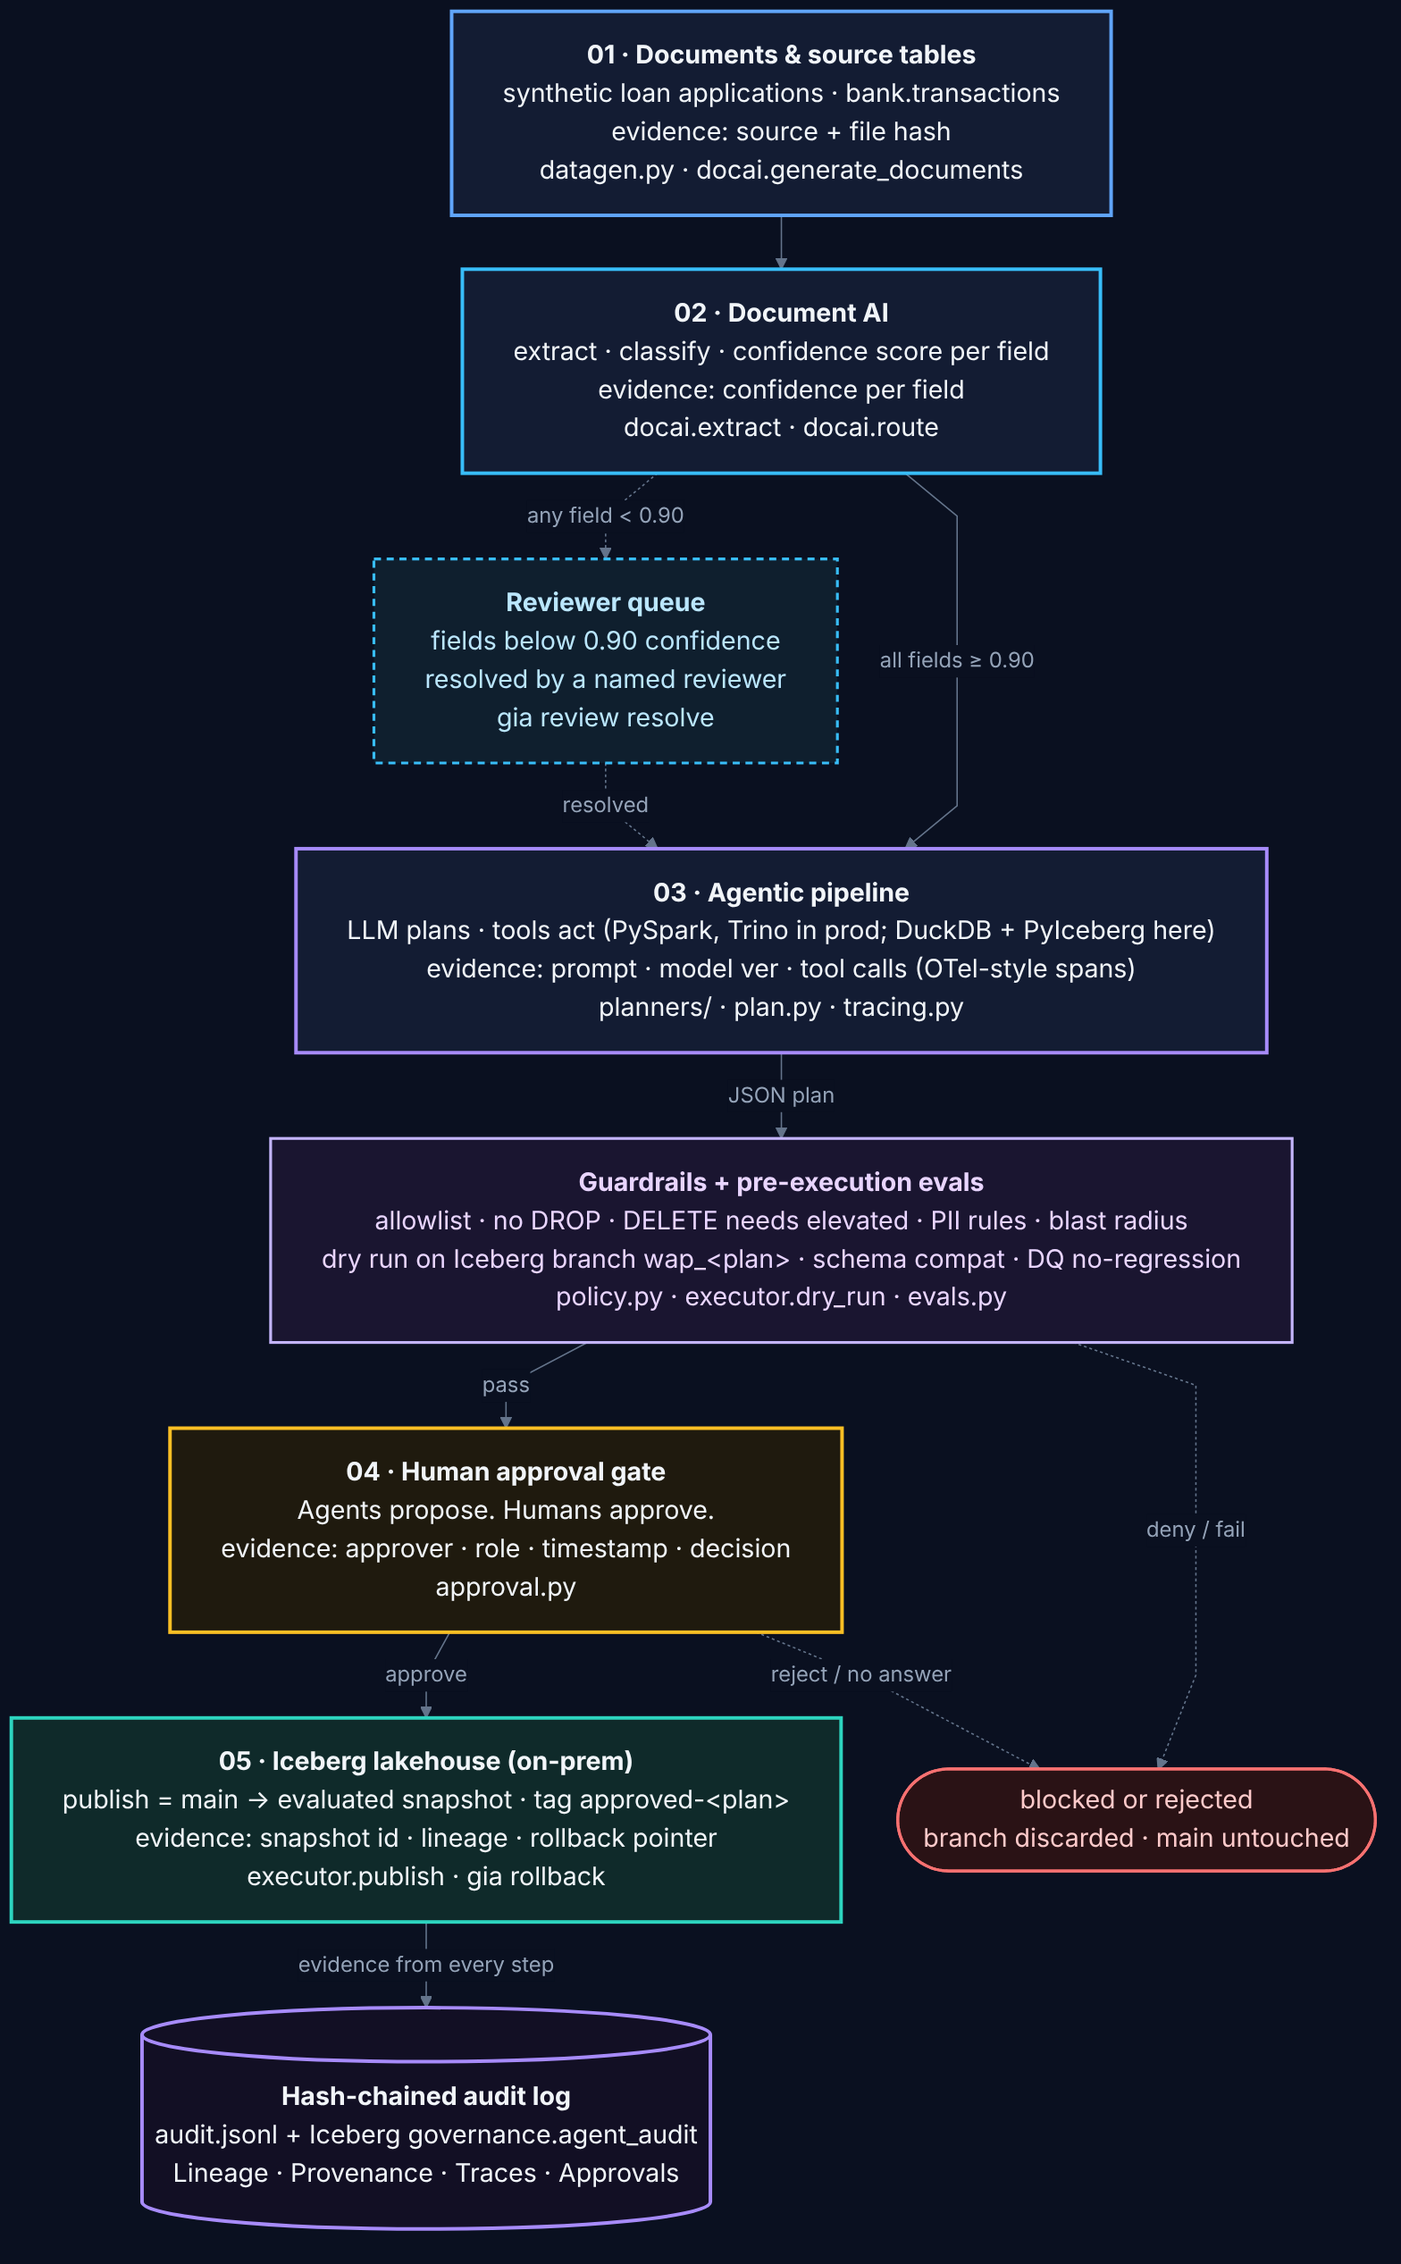
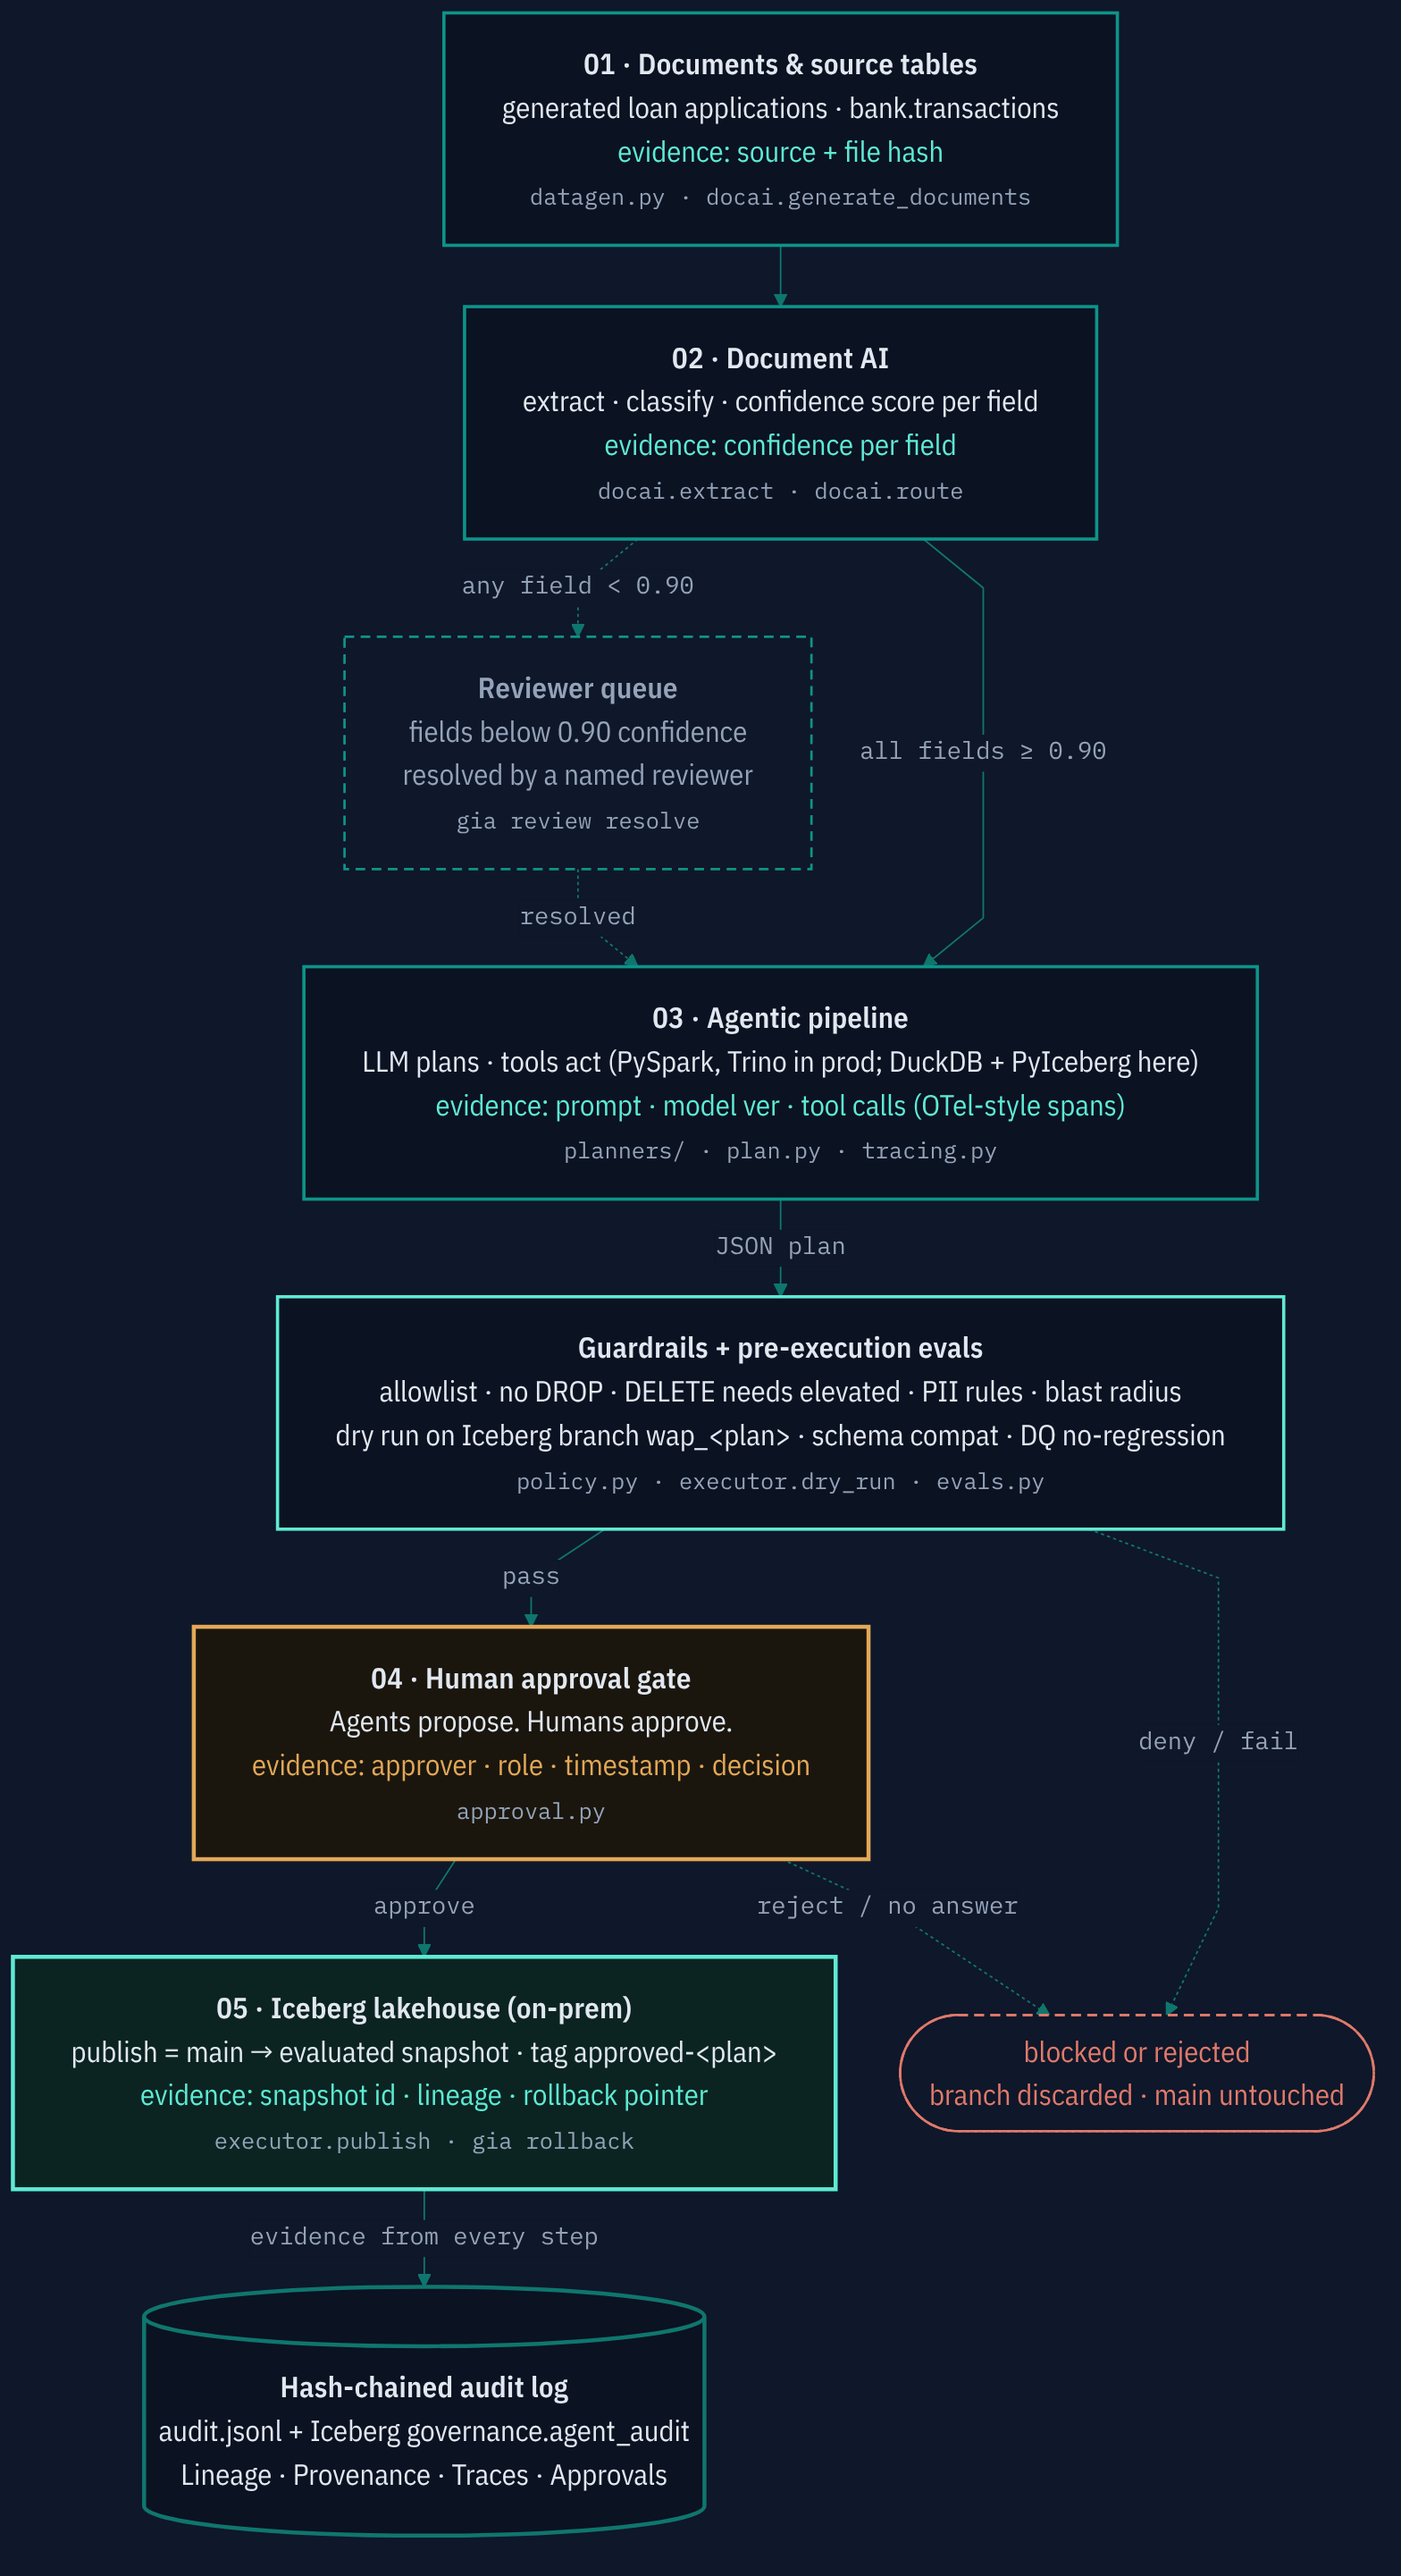
Architecture diagram in the Blueprint palette (no 'synthetic' wording); README screenshot of the four-step live app

diff --git a/README.md b/README.md
@@ -8,6 +8,10 @@
 Iceberg tables. It never gets to just make them, and every step it takes leaves a record you can
 hand to an auditor.
 
+[![The live app on Hugging Face: a numbered stepper (load data, agent proposes, you approve, audit and roll back), the bank ledger with planted problems, and a what-just-happened panel](docs/app-blueprint.png)](https://huggingface.co/spaces/kushagrasoni/governed-iceberg-agent)
+
+*The [live app](https://huggingface.co/spaces/kushagrasoni/governed-iceberg-agent) walks you through it in four steps: load data, agent proposes, you approve, audit & roll back. Document AI and the architecture diagram are under **More**.*
+
 ![gia demo story mode: 8 chapters from seeded data issues to rollback, ending in a scorecard](docs/demo.gif)
 
 *A real `gia demo --pause` run, recorded with [VHS](https://github.com/charmbracelet/vhs) from

diff --git a/docs/architecture.md b/docs/architecture.md
@@ -6,7 +6,7 @@ production bank lakehouse built on Apache Polaris, Spark and Trino.
 ![architecture](architecture.png)
 
 Diagram source: [architecture.mmd](architecture.mmd). To re-render:
-`npx -p @mermaid-js/mermaid-cli mmdc -i docs/architecture.mmd -o docs/architecture.png -p docs/puppeteer.json -b "#0A1020" -s 2`
+`npx -p @mermaid-js/mermaid-cli mmdc -i docs/architecture.mmd -o docs/architecture.png -p docs/puppeteer.json -b "#0F172A" -s 2`
 (`puppeteer.json` points at a local Chrome).
 
 ## 1. Components
